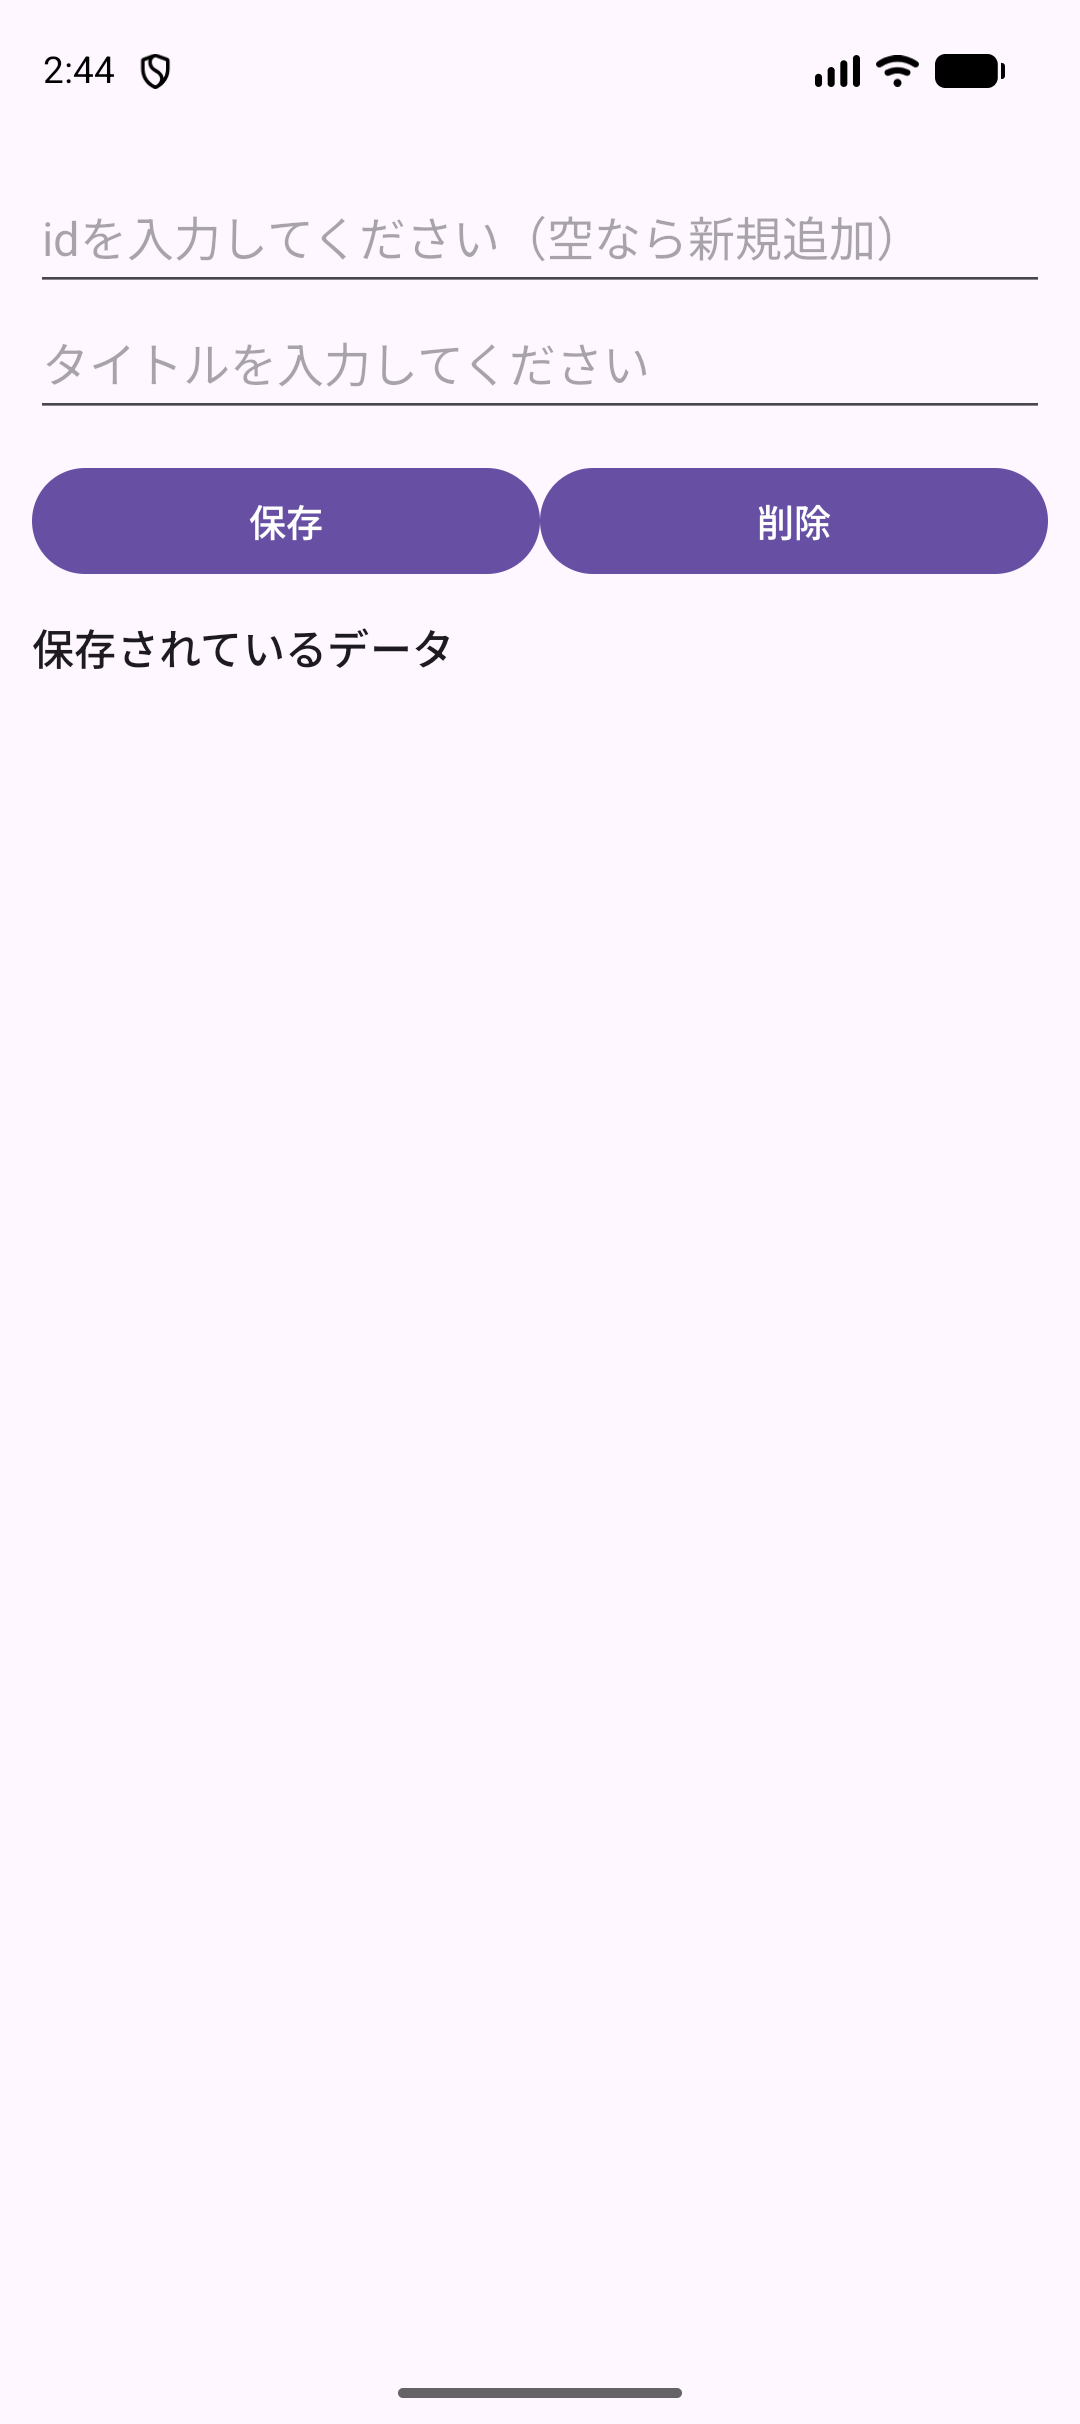
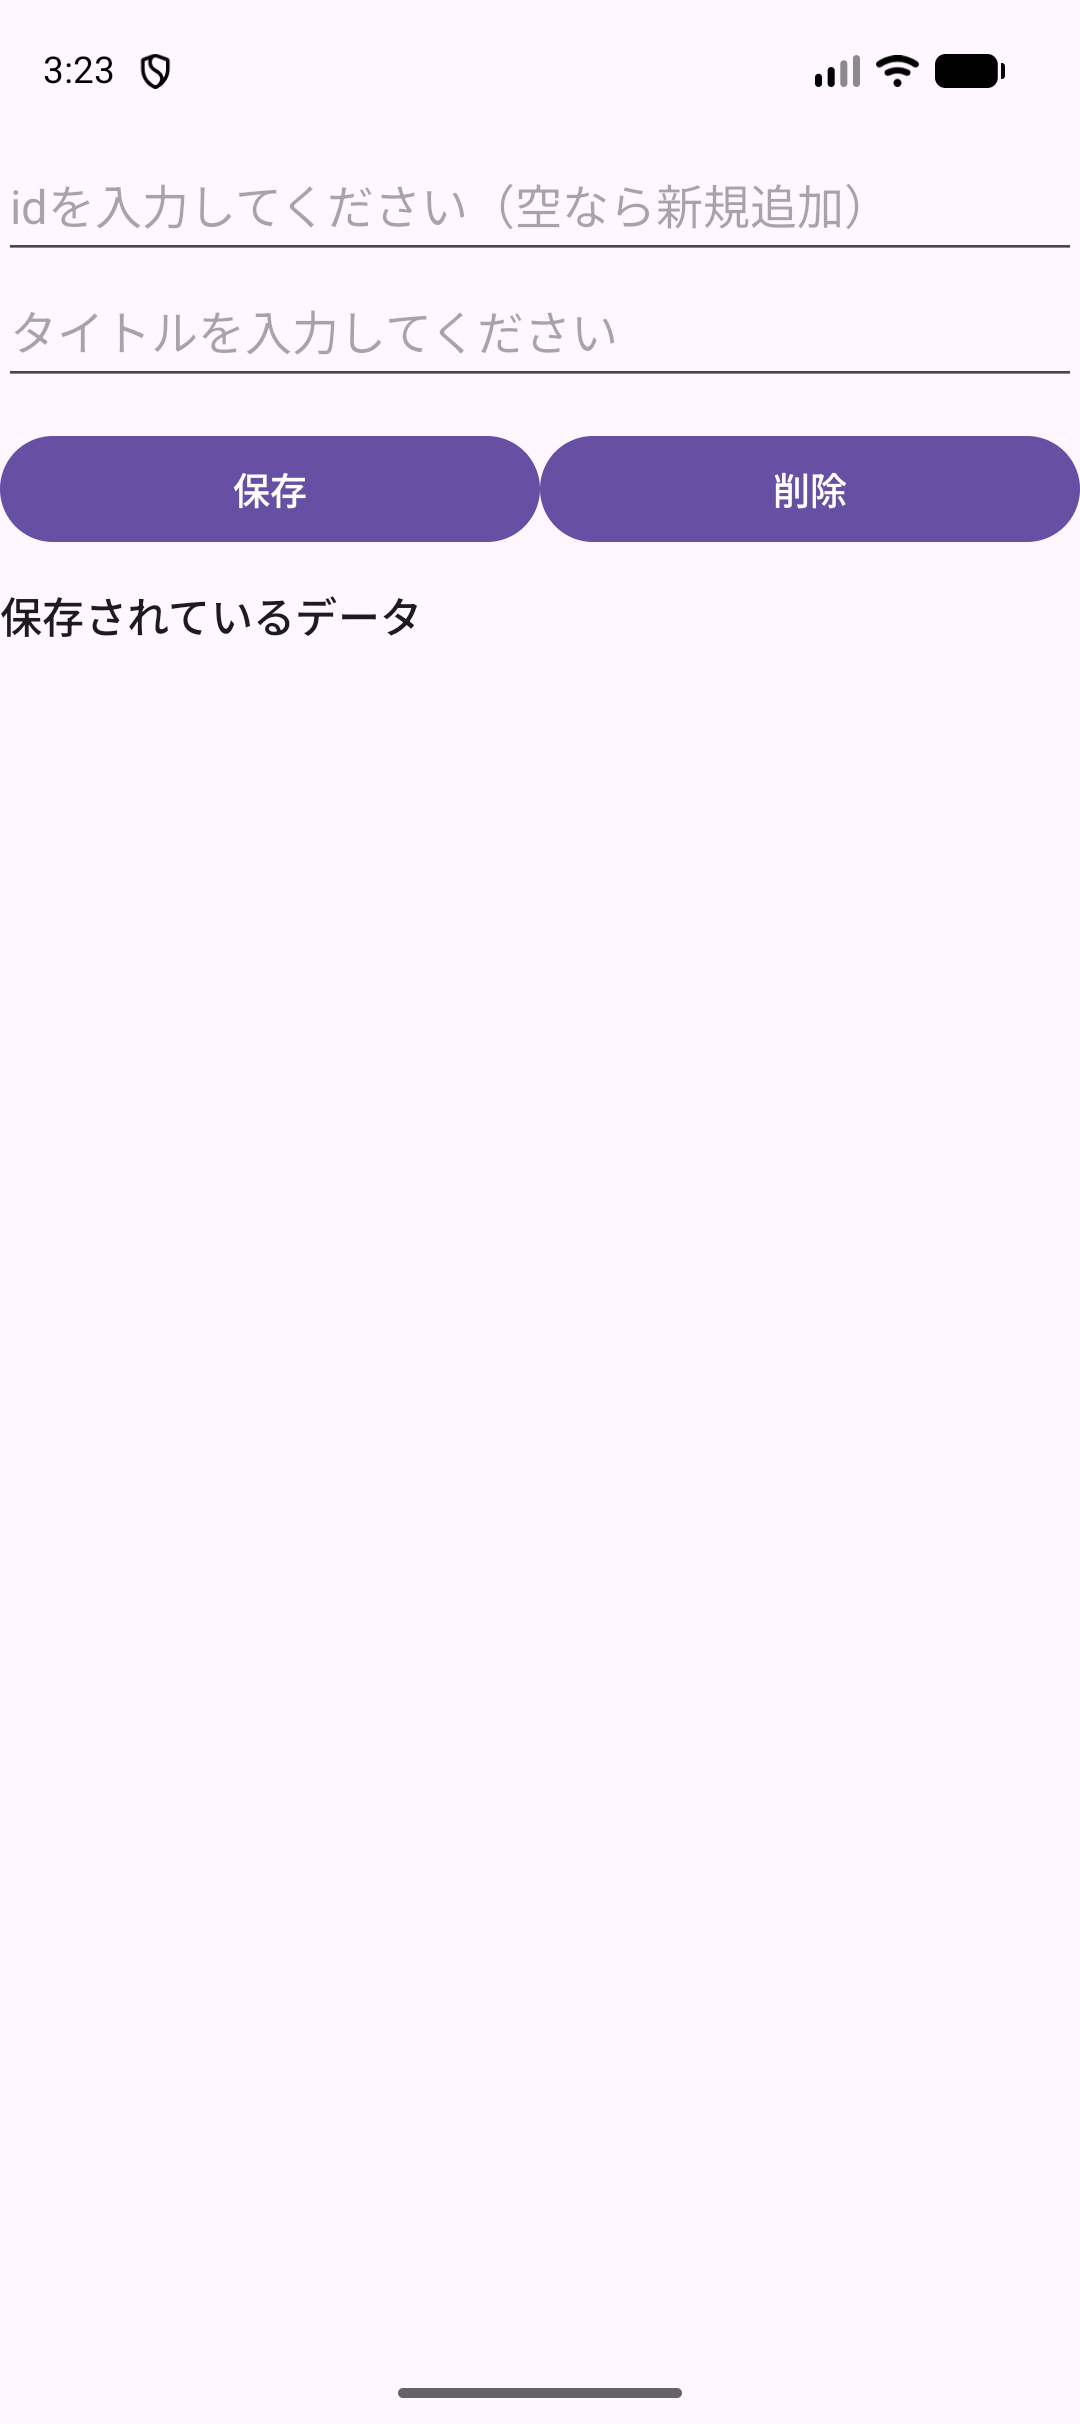
レイアウトの余白のとり方を全単元でそろえる
android:padding が入っていたのは A10RoomSample だけで、他10単元は
余白指定なしだった。A10から外して10単元に合わせる。

ルートに書いても setOnApplyWindowInsetsListener の v.setPadding(...)
で上書きされて効かない。内側の入れ物に書くと、その単元だけ余白が付
いて見た目が揃わない。READMEの「完成コードの書き方」にルールを追記
した。

A10のスクリーンショット5枚は、余白を外した状態で撮り直した。

Changed region(s): [[0.0, 0.0619, 1.0, 0.2785]]

diff --git a/docs/room-sample/index.html b/docs/room-sample/index.html
@@ -137,8 +137,7 @@ android-application = { id = &quot;com.android.application&quot;, version.ref = 
     &lt;LinearLayout
         android:layout_width=&quot;match_parent&quot;
         android:layout_height=&quot;wrap_content&quot;
-        android:orientation=&quot;vertical&quot;
-        android:padding=&quot;12dp&quot;&gt;
+        android:orientation=&quot;vertical&quot;&gt;
 
         &lt;EditText
             android:id=&quot;@+id/edt_id&quot;
@@ -601,8 +600,7 @@ public class MainActivity extends AppCompatActivity {
     &lt;LinearLayout
         android:layout_width=&quot;match_parent&quot;
         android:layout_height=&quot;wrap_content&quot;
-        android:orientation=&quot;vertical&quot;
-        android:padding=&quot;12dp&quot;&gt;
+        android:orientation=&quot;vertical&quot;&gt;
 
         &lt;EditText
             android:id=&quot;@+id/edt_id&quot;

diff --git a/README.md b/README.md
@@ -416,6 +416,9 @@ Non-Bundled Plugins:
 # 完成コードの書き方（全単元共通）
 完成プロジェクトのコードは、単元をまたいで同じ書き方にそろえる。教科書に掲載するコードと `teacher/<単元>/code` の照合コードも同じ形にする。
 
+## レイアウトの余白
+`android:padding` は書かない。ルートに書いても `ViewCompat.setOnApplyWindowInsetsListener` の中の `v.setPadding(...)` で上書きされて効かず、内側の入れ物に書くと、その単元だけ余白が付いて見た目が揃わなくなる。部品は端から並べる。
+
 ## Viewの取得（findViewById）
 1. `findViewById` は `onCreate` の冒頭（インセットのリスナ設定の直後）でまとめて呼び、`var` のローカル変数に入れる。命名は `txtXxx` / `edtXxx` / `btnXxx` / `imgXxx`。
 2. `onCreate` 以外のメソッドからも使うViewはフィールドにする（A02CalcGameの `txtMessage`、A04WebViewAppの `webView`）。同じidに対して `findViewById` を2回呼ばない。
